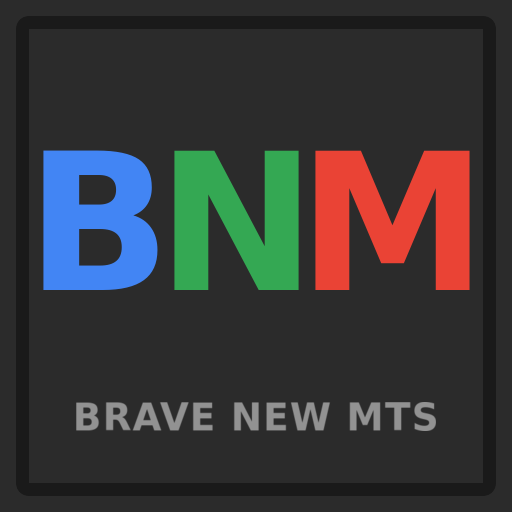
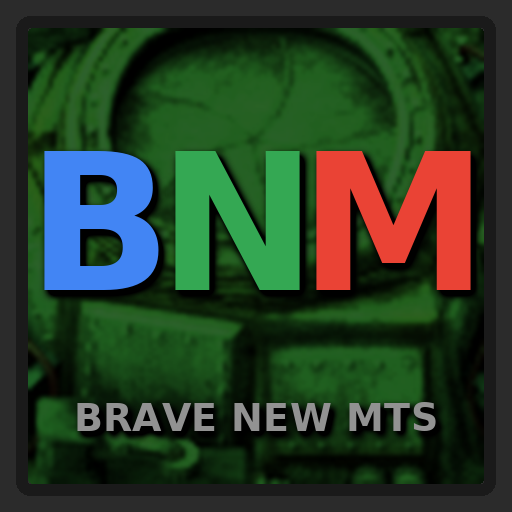
Put the Brave New Roboport behind the thumbnail's mark
The card keeps its layout and colours: BNM in blue, green and red and the
grey subtitle, at the same positions to the pixel. Behind them, inside the
frame, is a close-up of the Brave New Roboport's hatch, built from the
vanilla roboport's sprite layers with the mod's uranium tint and glow,
darkened and slightly soft so the text stays on top. Both text layers get a
soft drop shadow. tools/gen_thumbnail.py regenerates it, like the other
family cards' generators.

diff --git a/tools/gen_thumbnail.py b/tools/gen_thumbnail.py
@@ -1,0 +1,208 @@
+#!/usr/bin/env python3
+"""Generate thumbnail.png: the mod-portal card, in the house style shared with
+Multi-Team Support, Research Cost Shaper and the other family cards: 512x512,
+charcoal ground, a dark frame, the three-letter mark, and a grey subtitle in
+caps, at the same heights so the cards line up in a row on the author page.
+
+Three layers, back to front, inside the frame:
+
+  - The Brave New Roboport seen up close: the vanilla roboport's sprite layers
+    (base, patch, antenna, doors) put together as the game draws them, with
+    the mod's uranium-green tint and additive glow (prototypes/bnm_roboport.lua),
+    zoomed in so only its hatch and the machinery around it fill the card.
+    Darkened a little so the mark stays the brightest thing on it.
+  - The mark, BNM, in the colours the card has always had.
+  - The subtitle, in its grey.
+Each text layer gets a soft drop shadow, so it reads over the busy metal.
+
+Needs the Factorio install for the roboport sprites (FACTORIO_DATA below) and
+DejaVu Sans Bold.
+
+Run from the repo root:  python3 tools/gen_thumbnail.py [out.png]
+"""
+
+import sys
+from pathlib import Path
+
+from PIL import Image, ImageChops, ImageDraw, ImageEnhance, ImageFilter, ImageFont
+
+SIZE = 512
+BG = (43, 43, 43)
+FRAME = (26, 26, 26)
+FRAME_OUTER = 16          # the frame's outer edge, from the card's edge
+FRAME_WIDTH = 12
+FRAME_RADIUS = 14
+
+FONT = "/usr/share/fonts/truetype/dejavu/DejaVuSans-Bold.ttf"
+
+# The mark, where the card has always had it: each letter's inked box, left
+# edge and top, and the shared cap height, measured off the previous card.
+LETTERS = (("B", (66, 133, 244), 44), ("N", (52, 168, 83), 175), ("M", (234, 67, 53), 316))
+LETTER_TOP, LETTER_HEIGHT = 151, 139
+SUBTITLE = "BRAVE NEW MTS"
+SUBTITLE_FILL = (146, 146, 146)
+SUBTITLE_BOX = (77, 402, 436, 431)   # left, top, right, bottom of its ink
+
+# The drop shadow under both text layers: offset down-right, softened.
+SHADOW = (0, 0, 0)
+SHADOW_OFFSET = (4, 5)
+SHADOW_BLUR = 4
+SHADOW_STRENGTH = 2.4     # alpha gain after the blur, so the edge stays dark
+
+# The background roboport.
+FACTORIO_DATA = Path.home() / "factorio" / "data"
+ROBOPORT = FACTORIO_DATA / "base" / "graphics" / "entity" / "roboport"
+# (file, frame width, frame height, shift in game pixels at scale 0.5), from
+# data.raw.roboport.roboport; the sheets are high-res, so a shift is doubled.
+ROBOPORT_LAYERS = (
+    ("roboport-base.png", 228, 277, (2, -2.25)),
+    ("roboport-base-patch.png", 138, 100, (1.5, -5)),
+    ("roboport-base-animation.png", 83, 59, (-17.75, -71.25)),
+    ("roboport-door-up.png", 97, 38, (-0.25, -39.5)),
+    ("roboport-door-down.png", 97, 41, (-0.25, -19.75)),
+)
+BNM_TINT = (0.15, 1.0, 0.15)      # prototypes/bnm_roboport.lua
+# The close-up: a square of the sprite, in sprite pixels around the entity's
+# centre, scaled up to fill the frame. Smaller = closer.
+ZOOM_CENTRE = (0, -30)
+ZOOM_SIZE = 110
+# Darker, a little less saturated and slightly soft, like a shallow depth of
+# field: the roboport reads, and the mark stays the sharpest, brightest thing.
+BACKGROUND_BRIGHTNESS = 0.42
+BACKGROUND_SATURATION = 0.7
+BACKGROUND_BLUR = 1.5
+
+
+def roboport_sprite():
+    """The roboport as the game stacks its layers, on a transparent canvas
+    centred on the entity (first frame of each animation)."""
+    w = h = 480
+    canvas = Image.new("RGBA", (w, h), (0, 0, 0, 0))
+    for name, fw, fh, (sx, sy) in ROBOPORT_LAYERS:
+        frame = Image.open(ROBOPORT / name).convert("RGBA").crop((0, 0, fw, fh))
+        canvas.alpha_composite(frame, (round(w / 2 + sx * 2 - fw / 2), round(h / 2 + sy * 2 - fh / 2)))
+    return canvas
+
+
+def bnm_tinted(sprite):
+    """The mod's look: the sprite multiplied by the uranium tint, plus an
+    additive copy of itself as the glow layer."""
+    r, g, b, a = sprite.split()
+    tr, tg, tb = BNM_TINT
+    rgb = Image.merge("RGB", (r.point(lambda v: int(v * tr)), g.point(lambda v: int(v * tg)),
+                              b.point(lambda v: int(v * tb))))
+    lit = ImageChops.add(rgb, rgb)
+    out = Image.new("RGBA", sprite.size, (0, 0, 0, 0))
+    out.paste(lit, (0, 0), a)
+    return out
+
+
+def close_up(inner):
+    """The zoomed square of the tinted roboport, `inner` pixels wide."""
+    sprite = bnm_tinted(roboport_sprite())
+    cx, cy = sprite.width / 2 + ZOOM_CENTRE[0], sprite.height / 2 + ZOOM_CENTRE[1]
+    half = ZOOM_SIZE / 2
+    crop = sprite.crop((round(cx - half), round(cy - half), round(cx + half), round(cy + half)))
+    flat = Image.new("RGB", crop.size, BG)
+    flat.paste(crop, (0, 0), crop)
+    big = flat.resize((inner, inner), Image.Resampling.LANCZOS)
+    big = ImageEnhance.Color(big).enhance(BACKGROUND_SATURATION)
+    big = ImageEnhance.Brightness(big).enhance(BACKGROUND_BRIGHTNESS)
+    return big.filter(ImageFilter.GaussianBlur(BACKGROUND_BLUR))
+
+
+def paste_background(card):
+    inner_lo = FRAME_OUTER + FRAME_WIDTH
+    inner = SIZE - 2 * inner_lo
+    mask = Image.new("L", (inner, inner), 0)
+    ImageDraw.Draw(mask).rounded_rectangle([0, 0, inner - 1, inner - 1], radius=4, fill=255)
+    card.paste(close_up(inner), (inner_lo, inner_lo), mask)
+
+
+def draw_frame(card):
+    far = SIZE - 1 - FRAME_OUTER
+    ImageDraw.Draw(card).rounded_rectangle([FRAME_OUTER, FRAME_OUTER, far, far], radius=FRAME_RADIUS,
+                                           outline=FRAME, width=FRAME_WIDTH)
+
+
+def ink_box(text, font):
+    """The inked box of `text` drawn at the origin: rendered and measured,
+    since a font's reported box includes side bearings, not just ink."""
+    pad = font.size
+    mask = Image.new("L", (round(font.getlength(text)) + 2 * pad, 3 * pad), 0)
+    ImageDraw.Draw(mask).text((pad, pad), text, font=font, fill=255)
+    left, top, right, bottom = mask.getbbox()
+    return left - pad, top - pad, right - pad, bottom - pad
+
+
+def font_for_cap_height(text, height):
+    """The font whose inked `text` is `height` pixels tall (binary search)."""
+    lo, hi = height // 2, height * 3
+    while lo < hi:
+        size = (lo + hi) // 2
+        _, top, _, bottom = ink_box(text, ImageFont.truetype(FONT, size))
+        if bottom - top < height:
+            lo = size + 1
+        else:
+            hi = size
+    return ImageFont.truetype(FONT, lo)
+
+
+def text_layer():
+    """Both text layers on one transparent card-sized layer, each glyph placed
+    by its inked box so the layout matches the previous card exactly."""
+    layer = Image.new("RGBA", (SIZE, SIZE), (0, 0, 0, 0))
+    d = ImageDraw.Draw(layer)
+    font = font_for_cap_height("BNM", LETTER_HEIGHT)
+    for ch, color, left in LETTERS:
+        x0, y0, _, _ = ink_box(ch, font)
+        d.text((left - x0, LETTER_TOP - y0), ch, font=font, fill=color)
+    left, top, right, bottom = SUBTITLE_BOX
+    sub_font = font_for_cap_height(SUBTITLE, bottom - top)
+    draw_tracked(d, SUBTITLE, sub_font, (left, top), right - left, SUBTITLE_FILL)
+    return layer
+
+
+def draw_tracked(d, text, font, at, width, fill):
+    """`text` spread with even letter spacing so its ink spans `width`: from
+    the first glyph's ink to the last glyph's, advances in between."""
+    first_left, top = ink_box(text[0], font)[0], ink_box(text, font)[1]
+    last_right = ink_box(text[-1], font)[2]
+    advances = sum(d.textlength(ch, font=font) for ch in text[:-1])
+    gap = (width - (advances + last_right - first_left)) / (len(text) - 1)
+    x, y = at[0] - first_left, at[1] - top
+    for ch in text:
+        d.text((x, y), ch, font=font, fill=fill)
+        x += d.textlength(ch, font=font) + gap
+
+
+def drop_shadow(layer):
+    alpha = layer.getchannel("A").filter(ImageFilter.GaussianBlur(SHADOW_BLUR))
+    alpha = alpha.point(lambda v: min(255, int(v * SHADOW_STRENGTH)))
+    shadow = Image.new("RGBA", layer.size, SHADOW + (0,))
+    shadow.putalpha(alpha)
+    moved = Image.new("RGBA", layer.size, (0, 0, 0, 0))
+    moved.alpha_composite(shadow, SHADOW_OFFSET)
+    return moved
+
+
+def build():
+    card = Image.new("RGB", (SIZE, SIZE), BG)
+    paste_background(card)
+    draw_frame(card)
+    text = text_layer()
+    card = card.convert("RGBA")
+    card.alpha_composite(drop_shadow(text))
+    card.alpha_composite(text)
+    return card.convert("RGB")
+
+
+def main():
+    root = Path(__file__).resolve().parent.parent
+    out = Path(sys.argv[1]) if len(sys.argv) > 1 else root / "thumbnail.png"
+    build().save(out, optimize=True)
+    print(f"wrote {out}")
+
+
+if __name__ == "__main__":
+    main()
